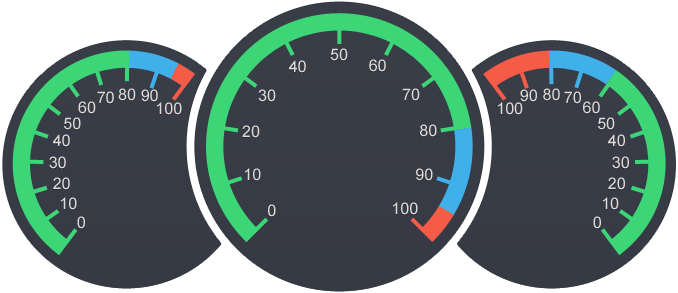
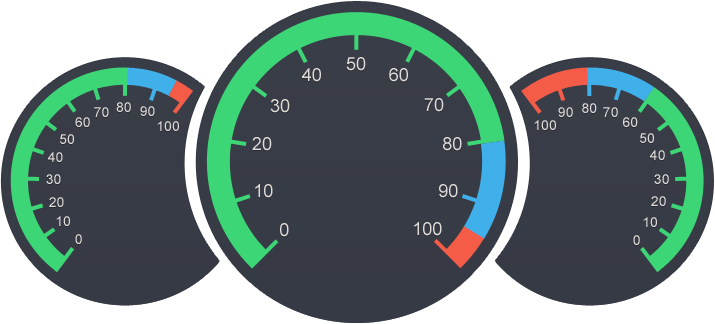
content layout auto margin

diff --git a/eospd_h5/WebContent/css/sb-admin-2.css b/eospd_h5/WebContent/css/sb-admin-2.css
@@ -9,7 +9,7 @@ body {
 }
 
 #wrapper {
-	width:1280px;
+	width:100%;
 	margin:auto;
     border-top-color:#555963;
     background:rgb(45,52,61);
@@ -453,11 +453,12 @@ body{text-align:center}
 }
 
 .col-md-1 {
+	width:1%;
 	margin: auto;
 }
 
 .col-md-10 {
-	/*width:1366px;*/
+	width:1280px;
 	padding-left:0px;
 	padding-right:0px;
 }
